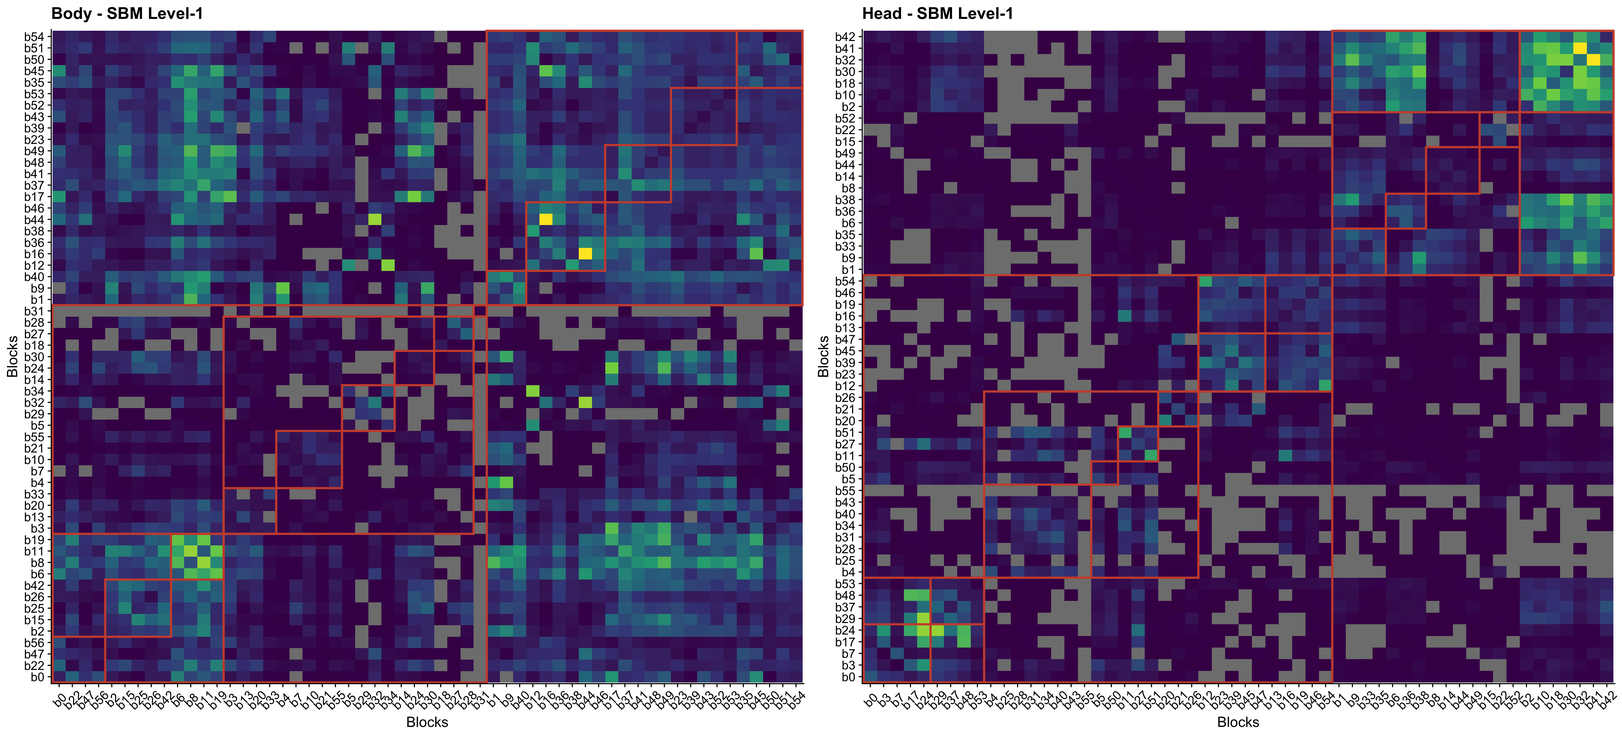
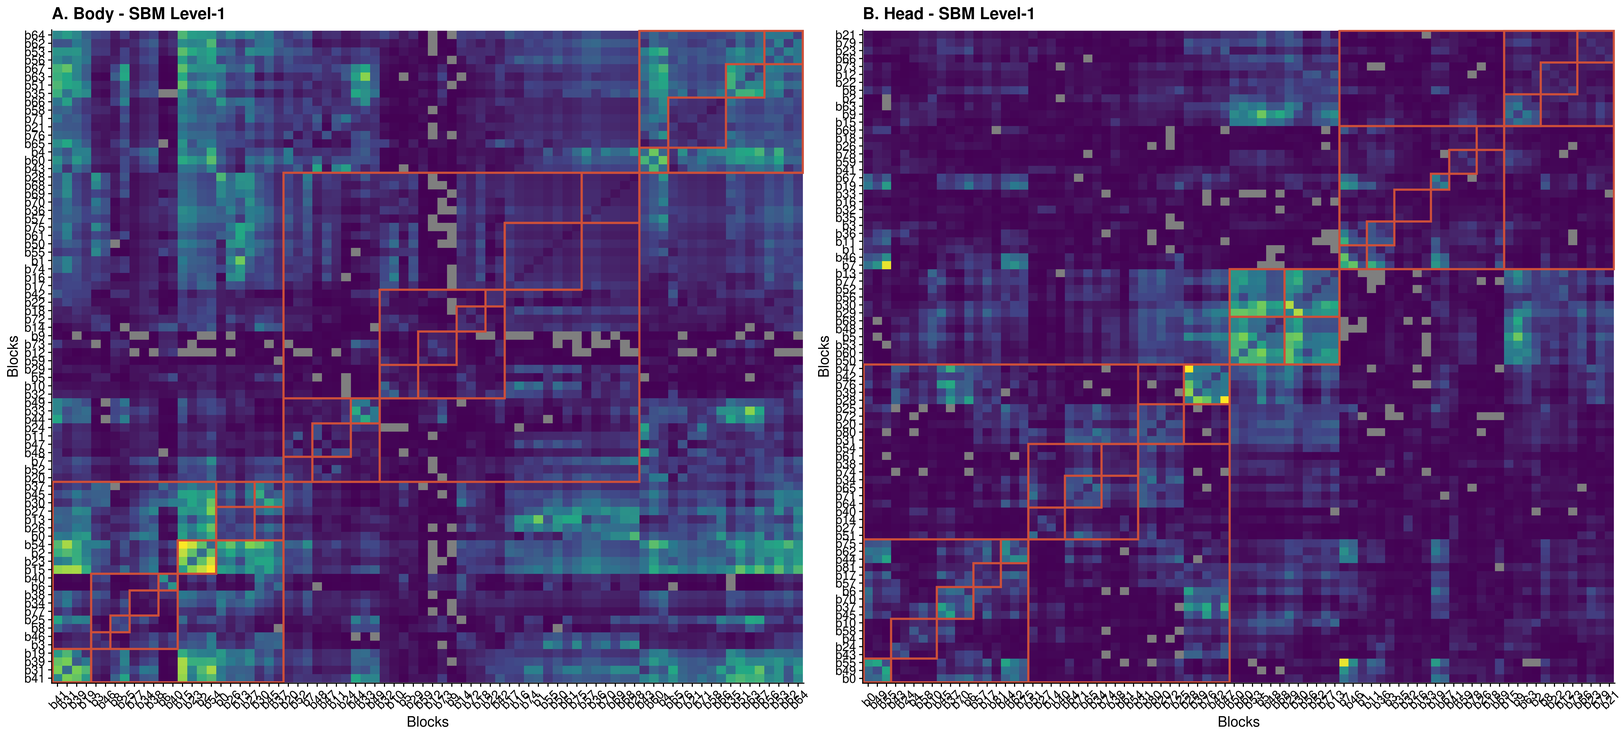
starting the changes for the 5k gene version

diff --git a/main.md b/main.md
@@ -1,17 +1,34 @@
 ---
 title: Clustering using the Stochastic Block Model shows that gene expression networks are not assortative
-bibliography: [./references.bib]
-csl: [./evolution.csl]
-mainfont: Skolar PE TEST Regular
-sansfont: Skolar Sans PE TEST
-mainfontoptions:
-- Numbers=Lowercase
-- Numbers=Proportional
+author:
+- Diogo Melo
+- Luisa Pallares
+- Julien Ayroles
+output: pdf_document
 geometry:
 - top=20mm
 - left=25mm
 - right=25mm
 - bottom=20mm
+header-includes:
+- \usepackage[backref=true,style=authoryear]{biblatex}
+- \DefineBibliographyStrings{english}{backrefpage = {page}, backrefpages = {pages}}
+- \usepackage{multicol}
+- \usepackage{setspace}
+- \usepackage{float}
+- \usepackage{afterpage}
+- \usepackage{stfloats}
+- \usepackage{graphicx}
+- \newcommand{\hideFromPandoc}[1]{#1}
+- \hideFromPandoc{ \let\Begin\begin \let\End\end}
+link-citations: yes
+mainfont: Skolar PE TEST Regular
+mainfontoptions:
+- Numbers=Lowercase
+- Numbers=Proportional
+csl: ./evolution.csl
+sansfont: Skolar Sans PE TEST
+bibliography: ./references.bib
 ---
 
 # Intro
@@ -20,9 +37,9 @@ Gene co-expression networks allow for the associations between genes to inform o
 
 The question is, given a co-expression network, how should we cluster the genes? The general idea behind several methods is to look for similar genes, as these are expected to be involved in related biological functions, but several definitions of similarity have been used. The most basic measure of similarity borrows from classical morphological integration theory, and attempts find gene modules based on their correlations. In this context, genes in the same modules are expected to be highly correlated and perform similar functions, while genes in different modules are expected to have low correlations [@Olson1958-fh; @Magwene2001-an; @Wagner2007-jt]. Here, we refer to this classic pattern of groups of genes that are more associated with each other than with other genes as assortativity, and to the groups as assortative modules. Other methods use the correlations to create other measures of similarity, which are then used as inputs to clustering algorithms. Weighted correlation network analysis [WGCNA, @Langfelder2008-qa] uses a power transformation of the correlations between genes expressions (or a topological similarity measure built with these transformed correlations) [@Zhang2005-kh; @Dong2007-ff] as a similarity measure that is then separated into assortative modules using hierarchical clustering. One of the main objectives of WGCNA is finding hub genes, which have high connectivity withing modules and are clearly identified by the hierarchical clustering. Other methods borrow from network analysis and attempt to explicitly maximize the Newman Modularity [@Newman2006-fv] of the weighted gene network. Modulated Modularity Clustering [MMC, @Stone2009-hv] uses an adaptive algorithm to find a non-linear distance between genes based on their correlations that maximizes the number of modules. All these methods impose an assortative structure on the gene expression network, in which similar genes are expected to be correlated with each other. 
 
-These clustering approaches come with important downsides. Using WGCNA involves manually tunning several parameters, and for this tunning the method leans heavily on the expectation that gene co-expression networks should be approximately scale-free [@Dong2007-ff; @Bergmann2004-vw; @Jeong2000-xe], but, despite its popularity, this expectation might be somewhat unwarranted [@Khanin2006-ve; @Stumpf2005-ed]. Even with optimal parameters, WGCNA fails to assign a substantial proportion of genes to any module. While WGCNA is efficient in finding hub genes, if some functional gene group does not have a hub or has low average similarities, this group will never be identified. Both limitations potentially leave biological insight on the table by ignoring network structures that are different from what the method expects. Methods that use modularity maximization, like MMC, are subject to know statistical problems, surprisingly being prone to both overfitting (finding modular community structure where there is none [@Guimera2004-jq]) and under-fitting (failing to find modular structure in large networks, due to a problem know as the resolution limit [@Fortunato2007-ao]). 
+These clustering approaches come with important downsides. Using WGCNA involves manually tuning several parameters, and for this tuning the method leans heavily on the expectation that gene co-expression networks should be approximately scale-free [@Dong2007-ff; @Bergmann2004-vw; @Jeong2000-xe], but, despite its popularity, this expectation might be somewhat unwarranted [@Khanin2006-ve; @Stumpf2005-ed]. Even with optimal parameters, WGCNA fails to assign a substantial proportion of genes to any module. While WGCNA is efficient in finding hub genes, if some functional gene group does not have a hub or has low average similarities, this group will never be identified. Both limitations potentially leave biological insight on the table by ignoring network structures that are different from what the method expects. Methods that use modularity maximization, like MMC, are subject to know statistical problems, surprisingly being prone to both overfitting (finding modular community structure where there is none [@Guimera2004-jq]) and under-fitting (failing to find modular structure in large networks, due to a problem know as the resolution limit [@Fortunato2007-ao]). 
 
-The co-expression methods described above attempt find group structure by clustering genes into assortative modules. Clustering genes in tightly correlated modules aligns with our intuition that groups of genes performing similar functions should be highly correlated, but it is not necessary for a network to be organized in this assortative fashion, and so using methods that assume assortativity will necessarily ignore alternative organizations. Here, we use a more general measure of similarity can be used to find meaningful genes groups that are not necessarily assortative, with high correlation between groups and biological function. To achieve this, we use a weighted nested degree corrected stochastic block model (wnDC-SBM, or SBM for brevity) [@Peixoto2017-zw; @Peixoto2018-or], which has shown promissing results in similar applications [@Baum2019-ty; @Morelli2020-ge]. The SBM is different from other clustering methods in that it does not attempt to find assortative modules. Instead, any information contained in the structural similarity between genes in the network can potentially be used to inform the clustering. To be sure, the SBM can capture an assortative modular pattern if it is present, but it is general enough to also capture other network organizations [@Zhang2020-up]. Even if, in the context of the SBM, assortativity is not the main driver of the gene partitioning, it can still be used to interpret the groups we obtain. We show that the SBM, a model with no free parameters, can find many more meaningful groups than competing methods, as revealed by highly specific gene ontology enrichment, and show that the expected assortativity of biologically meaningful groups is not necessarily present.
+The co-expression methods described above attempt find group structure by clustering genes into assortative modules. Clustering genes in tightly correlated modules aligns with our intuition that groups of genes performing similar functions should be highly correlated, but it is not necessary for a network to be organized in this assortative fashion, and so using methods that assume assortativity will necessarily ignore alternative organizations. Here, we use a more general measure of similarity can be used to find meaningful genes groups that are not necessarily assortative, with high correlation between groups and biological function. To achieve this, we use a weighted nested degree corrected stochastic block model (wnDC-SBM, or SBM for brevity) [@Peixoto2017-zw; @Peixoto2018-or], which has shown promising results in similar applications [@Baum2019-ty; @Morelli2020-ge]. The SBM is different from other clustering methods in that it does not attempt to find assortative modules. Instead, any information contained in the structural similarity between genes in the network can potentially be used to inform the clustering. To be sure, the SBM can capture an assortative modular pattern if it is present, but it is general enough to also capture other network organizations [@Zhang2020-up]. Even if, in the context of the SBM, assortativity is not the main driver of the gene partitioning, it can still be used to interpret the groups we obtain. We show that the SBM, a model with no free parameters, can find many more meaningful groups than competing methods, as revealed by highly specific gene ontology enrichment, and show that the expected assortativity of biologically meaningful groups is not necessarily present.
 
 
 # Methods
@@ -33,11 +50,11 @@ We measure gene expression using RNASeq in a large, outbred population of D. Mel
 
 ## Gene selection
 
-Using the gene expression measures for both tissues we generate co-expression network graphs. In theory, we could proceed using a full network in which all pairs of genes are connected but fitting the SBM with this fully connected graph is computationally too expensive. So, to reduce the size and connectivity of the network, we impose a stringent Benjamini-Hochberg false discovery rate (FDR) cut-off on the edges, removing edges with a large p-value associated with the correlation between the corresponding genes. As edges are removed, some genes with only non-significant correlations become disconnected from the rest of the network and can be removed. By gradually reducing the FDR threshold, we reduce the size and density of the gene network, until we arrive at a viable set of genes and connections with which to fit the SBM. After some experimentation, we decided that an FDR of 1e-4 for the head and 1e-5 for the body kept a large number of genes (head:3589, body:3253) and allowed us to fit the SBM in days instead of weeks. This set of genes is used in all the different clustering methods. 
+Using the gene expression measures for both tissues we generate co-expression network graphs. In theory, we could proceed using a full network in which all pairs of genes are connected but fitting the SBM with this fully connected graph is computationally too expensive. So, to reduce the size and connectivity of the network, we impose a stringent Benjamini-Hochberg false discovery rate (FDR) cut-off on the edges, removing edges with a large p-value associated with the correlation between the corresponding genes. As edges are removed, some genes with only non-significant correlations become disconnected from the rest of the network and can be removed. By gradually reducing the FDR threshold, we reduce the size and density of the gene network, until we arrive at a viable set of genes and connections with which to fit the SBM. After some experimentation, we decided that an FDR of 1e-2 for the head and 1e-3 for the body kept most of the genes (head:5261, body:5124) and reduced the graph density to a manageable level. This set of genes is used in all the different clustering methods. 
 
-## Edge weights 
+## Edge weights
 
-Each method uses different edge weights for the network graph. Both WGCNA and MMC can use the fully connected graph, so we maintain all edges in these methods. We use the TOM similarity in WGCNA, and the Spearman correlation derived distance in MMC. For the SBM, we use the low-density graph described above, with the edge weights given by the inverse hyperbolic tangent transformed Spearman correlations between gene expressions. This transformation allows the edge weights to be modeled by normal distributions in the SBM, as we discuss bellow.
+Each method uses different edge weights for the network graph. Both WGCNA and MMC can use the fully connected graph, so we maintain all edges in these methods. We use the TOM similarity in WGCNA, and the Spearman correlation derived distance in MMC. For the SBM, we use the low-density graph described above, with the edge weights given by the inverse hyperbolic tangent transformed Spearman correlations between gene expressions. This transformation allows the edge weights to be modeled by normal distributions in the SBM, as we discuss below.
 
 ## Stochastic Block Model
 
@@ -61,7 +78,7 @@ $$
 
 Where $\Sigma = -log[P(A|\theta, b)] - log[P(\theta,b)]$ is called the description length of the gene network $A$, and has an information theoretic interpretation, being the amount of information required to encode the network given $\theta$ and $b$. So finding the partition that maximizes the posterior probability is the same as minimizing the description length, or, in other words, the chosen partition $b$ allows us to describe the network using less information. 
 
-The two terms in $\Sigma$ also allow us to understand why this method offers an intrinsic protection against overfitting. The first term $log[P(A|\theta, b)]$ corresponds to the log likelihood of the observed network. Increasing the number of blocks allows this likelihood to increase as the degrees of freedom of the model increase. But, the second term, $log[P(\theta,b)]$ functions as a penalty that decreases for complex models with many blocks, and the description length cannot decrease for overly complex models that have more blocks than warranted by the data. So, the selected partition with the minimum description length will necessarily be the simplest partition with similar explanatory power, avoiding overfitting and fully based on the available statistical evidence. For example, he SBM would not detect modules that appear in random networks due to statistical fluctuations [@Guimera2004-jq; @Zhang2020-up]. We can also use the description length as a principled method for comparting models that simultaneously considers fit to data and model complexity.
+The two terms in $\Sigma$ also allow us to understand why this method offers an intrinsic protection against overfitting. The first term $log[P(A|\theta, b)]$ corresponds to the log likelihood of the observed network. Increasing the number of blocks allows this likelihood to increase as the degrees of freedom of the model increase. But, the second term, $log[P(\theta,b)]$ functions as a penalty that decreases for complex models with many blocks, and the description length cannot decrease for overly complex models that have more blocks than warranted by the data. So, the selected partition with the minimum description length will necessarily be the simplest partition with similar explanatory power, avoiding overfitting and fully based on the available statistical evidence. For example, he SBM would not detect modules that appear in random networks due to statistical fluctuations [@Guimera2004-jq; @Zhang2020-up]. We can also use the description length as a principled method for comparing models that simultaneously considers fit to data and model complexity.
 
 ### Weighted SBM
 
@@ -89,21 +106,21 @@ where $B$ is the number of blocks. Using this definition, $M = \frac{1}{B} \sum_
 
 ## WGCNA and MMC
 
-We use WGCNA to cluster the genes into modules using the topological overlap measure (TOM) similarity with a soft threshold of 6 in a signed similarity measure. WGCNA produces modules by cutting the hierarchical clustering tree at different heights, and we use the dynamic cutting option to create the modules. We use a signed network (as opposed to ignoring the sign of the correlation between genes) because inspection of the gene network graph reveals large groups of genes linked by negative correlations in our data, suggesting large scale structure that would be obscured by using the unsigned method. Unsigned similarity has been shown to lead to more robust modules [@Mason2009-ej], and in tunning WGCNA we were able to cluster more genes and find more modules using the signed method. MMC has no option to use the sign of the correlation, so we use the absolute value of the Spearman correlations.
+We use WGCNA to cluster the genes into modules using the topological overlap measure (TOM) similarity with a soft threshold of 6 in a signed similarity measure. WGCNA produces modules by cutting the hierarchical clustering tree at different heights, and we use the dynamic cutting option to create the modules. We use a signed network (as opposed to ignoring the sign of the correlation between genes) because inspection of the gene network graph reveals large groups of genes linked by negative correlations in our data, suggesting large scale structure that would be obscured by using the unsigned method. Unsigned similarity has been shown to lead to more robust modules [@Mason2009-ej], and in tuning WGCNA we were able to cluster more genes and find more modules using the signed method. MMC has no option to use the sign of the correlation, so we use the absolute value of the Spearman correlations.
 
 ## Gene Ontology enrichment
 
-We assess the biological relevance of the clustering obtained by each method by comparing their gene ontology (GO) enrichment. We filter enrichment using a Benjamini-Hochberg FDR rate of 5\%, with a minimum of 4 genes in the enriched set. We ran GO in all identified clusters using R packages ClusterProfiler [@Yu2012-tz] and the online tool GOrilla [@Eden2009-qs].
+We assess the biological relevance of the clustering obtained by each method by comparing their gene ontology (GO) enrichment. We filter enrichment using a Benjamini-Hochberg FDR rate of 5\%, with a minimum of 4 genes in the enriched set. We ran GO in all identified clusters using the clusterProfiler R package v4.2.2 [@Yu2012-tz].
 
 # Results
 
 ## Clustering
 
-Gene clustering for all methods is presented in table S1. Using the SBM, in both head and body we identified a nested partition with 4 levels, with 2 blocks at level 4 (the coarsest), 5 (head) and 4 (body) in level 3, 13 (head) and 14 (body) at level 2, and 56 (head) and 57 (body) at level 1. The block structure inferred by the SBM is shown in fig. @fig:Emats. In what follows, when discussing specific SBM blocks, we either explicitly define which level of the nested hierarchy we are referring to, or give the full path to a given block. So, level-1 block 12 in the head can also be referred as 12-0-0-0, and level-2 block 10 in the body is also 10-2-2. 
+Gene clustering for all methods is presented in table S1. Using the SBM, in both head and body we identified a nested partition with 5 levels, with 2 blocks at level 5 (the coarsest), 3 blocks at level 4, 6 (head) and 9 (body) in level 3, 21 (head and body) at level 2, and 82 (head) and 78 (body) at level 1. The block structure inferred by the SBM is shown in fig. @fig:Emats. In what follows, when discussing specific SBM blocks, we either explicitly define which level of the nested hierarchy we are referring to, or give the full path to a given block. So, level-1 block 12 in the head can also be referred as 12-7-2-2-1, and level-2 block 10 in the body is also 10-1-2-1. 
 
 ![SBM Level 1 blocks colored by their weighted connectivity, within and between blocks. Upper levels of the nested hierarchy are shown by the red lines.](figures/SBM_Ematrix.png){#fig:Emats}
 
-WGCNA partitioned 2717 genes into 9 modules in the body and 2032 genes into 8 in the head. WGCNA did not cluster 536 genes in the body and 1557 in the head. Given that the number of modules in WGCNA is somewhat similar to the number of blocks at level 2 of the SBM, we compare these two partitions in fig. @fig:wgcna_compare. Overall, the partitions are different, but there are some common patterns. For example, Level-2 blocks 0, 2 and 6 in the body are split between modules 1 and 4, and these blocks are all in the same Level-3 block 0, suggesting some similarity that could explain the WGCNA clustering. Also in the body genes, we find a similar patter for Level-2 blocks 3, 4 and 5, which are split between modules 2 and 3. In the head, Level-2 block 2 is all assigned to module 1. Level-2 blocks 0 and 12 are split between modules 4 and 6, and both are in Level-3 block 0. So, while the clustering is different, WGCNA and the SBM do capture some common signal.
+WGCNA partitioned 2118 genes into 7 modules in the body and 1600 genes into 7 in the head. WGCNA did not cluster 3006 genes in the body and 3661 in the head. Given that the number of modules in WGCNA is somewhat similar to the number of blocks at level 3 of the SBM, we compare these two partitions in fig. @fig:wgcna_compare. Overall, the partitions are different, but there are some common patterns. For example, Level-3 blocks 0, 2, 5, and 6 in the body are split between modules 3 and 4, and these blocks are all in the same Level-4 block 0, suggesting some similarity that could explain the WGCNA clustering. Blocks 7 and 9 are both fully assigned to module 2. Also in the body genes, we find a similar patter for Level-3 blocks 1, 3, and 4, which are mostly split between modules 1 and 2. In the head, Level-3 block 4 is all assigned to modules 1 and 2. Level-3 blocks 1 and 2 are split between modules 1 and 2, and both are in Level-4 block 2. So, while the clustering is different, WGCNA and the SBM do capture some common signal.
 
 MMC failed to cluster most genes, placing almost all genes into the same large module. Given this poor performance on our data, we do not discuss MMC further and instead focus on comparing SBM to WGCNA.
 
@@ -111,27 +128,27 @@ MMC failed to cluster most genes, placing almost all genes into the same large m
 
 ## Modularity and assortativity
 
-Modularity and assortativity are markedly lower in the body (fig. @fig:modularity). Several blocks in the body have negative assortativity, and the maximum value of modularity is 0.04 at level 2 of the nested hierarchy. Even so, several blocks show GO enrichment across the distribution of assortativity. In the head, modularity increases at coarser levels of the nested hierarchy, with a peak at 0.3 in level 4. This is still a relatively low value, and illustrates how assuming the gene network should be modular can prevent us from finding an informative clustering. Most blocks in the head show positive assortativity, and again GO enrichment is present across the range. 
+Modularity and assortativity are markedly lower in the body (fig. @fig:modularity). Several blocks in the body have negative assortativity, and the maximum value of modularity is 0.035 at level 4 of the nested hierarchy. Even so, several blocks show GO enrichment across the distribution of assortativity. In the head, modularity is overall higher, with a peak at 0.14 in level 3. This is still a relatively low value, and illustrates how assuming the gene network should be modular can prevent us from finding an informative clustering. All but 5 blocks in the head show positive assortativity, and again GO enrichment is present across the range. 
 
 
-![Assortativity in the SBM level-1 blocks and modularity for all nested levels. GO enriched blocks are show in yellow and appear all along the distribution of assortativity. Head modularity increases at upper levels, while body modularity is lower and peaks at level 2.](figures/assortativity.png){#fig:modularity}
+![Assortativity in the SBM level-1 blocks and modularity for all nested levels. GO enriched blocks are show in yellow and appear all along the distribution of assortativity. Modularity is much higher in the head, and it peaks at level 3, dropping in upper levels. Body has a much higher number of non-assortative blocks and lower modularity at all levels. Modularity peaks at level 4 in the body, and drops strongly at level 5. Interestingly, the 4 most assortative blocks in the body are do not show significant GO enrichment.](figures/assortativity.png){#fig:modularity}
 
 ## Gene Ontology enrichment
 
-The majority of blocks in SBM show some level of GO enrichment (Table 1). In particular, several of the Level-3 blocks show a remarkable consistency in their enrichment. For example, Level-3 block 0 in the head is related to neural signaling and sensory perception, with its daughter blocks at Level-2 (0 and 12) showing enrichment for: (Level-2 0) signal transduction, synapse organization, nervous system process, phototransduction, G protein-coupled receptor signaling pathway (12) neural development,  trans-synaptic signaling, behavior. Several of these enrichments are exclusive to one of the level-1 blocks. Perhaps the most surprising enrichment is for the blocks associated with translation, in which all of the ribosomal proteins are clustered almost exclusively in level-1 blocks in the body and in the head. We discuss some notable blocks below. Several other Level-2 and Level-1 blocks are readily identifiable as related to development, DNA transcription, cell respiration, cell cycle regulation, immune response, sugar metabolism, among others. All WGCNA modules show GO enrichment. Supporting Information table 1 shows all GO enrichmentes for all SBM blocks and WGCNA modules. 
+The majority of blocks in SBM show some level of GO enrichment (Table 1). In particular, several of the Level-2 blocks show a remarkable consistency in their enrichment. For example, Level-3 block 0 in the head is related to neural signaling and sensory perception, with its daughter blocks at Level-2 (4 and 6) showing enrichment for: (Level-2 4) G protein-coupled receptor signaling pathway, detection of light stimulus, phototransduction (Level-2 6) synapse organization, axon development,  cell-cell signaling, behavior. Several of these enrichments are exclusive to one of the level-1 blocks. Perhaps the most surprising enrichment is for the blocks associated with translation, in which all of the ribosomal proteins are clustered almost exclusively in level-1 blocks in the body and in the head. We discuss some notable blocks below. Several other Level-2 and Level-1 blocks are readily identifiable as related to development, DNA transcription, cell respiration, cell cycle regulation, immune response, sugar metabolism, among others. All WGCNA modules show GO enrichment (but modules 5, 6 and 7 in the body show only 2 or less enriched terms). Supporting Information table 1 shows GO enrichment for all SBM blocks and WGCNA modules. 
 
 ### Notable individual clusters
 
-Level 2 block 0-0-0 in the head is one of the easiest to interpret, being entierly related to brain tissue function. Figure @fig:go_map shows the top 10 GO categories for each of the level-1 blocks in block 0-0-0, and the most neuronal enriched WGCNA grouping, module 4. The SBM blocks separate vesicle exocitosis, neuronal differentiation, phototransduction, synaptic signaling, and, interestingly, there is a block related to alternative mRNA splicing, which is though to be more common in brain tissues [@Su2018-nz]. WGCNA module 4 recovers some of this enrichment, but in a less granular way. Only the phototransduction part of the enrichment is separated in module 6. Several of these level-1 blocks (especially 0, 7 and 24) are among the most assortative (see fig. @fig:modularity and following section), and so are prime candidates for detection in WGCNA. The alternative splicing module has a much lower assortativity, and so its not surprising that WGCNA could not detect it.
+Level 2 block 0-0-0 in the head is one of the easiest to interpret, being entirely related to brain tissue function. Figure @fig:go_map shows the top 10 GO categories for each of the level-1 blocks in block 0-0-0, and the most neuronal enriched WGCNA grouping, module 4. The SBM blocks separate vesicle exocytosis, neuronal differentiation, phototransduction, synaptic signaling, and, interestingly, there is a block related to alternative mRNA splicing, which is though to be more common in brain tissues [@Su2018-nz]. WGCNA module 4 recovers some of this enrichment, but in a less granular way. Only the phototransduction part of the enrichment is separated in module 6. Several of these level-1 blocks (especially 0, 7 and 24) are among the most assortative (see fig. @fig:modularity and following section), and so are prime candidates for detection in WGCNA. The alternative splicing module has a much lower assortativity, and so its not surprising that WGCNA could not detect it.
 
-Some of the most specific enrichments in the SBM are the translation related blocks. In both body and head, ribossomal proteins are clustered in small and highly enriched level-1 blocks. Six level-1 blocks in the head and seven in the body are composed of virtually only ribossomal related protein genes (We show a subset of these in Figure @fig:go_translation). All are very specific, being composed of between 10-22 genes, and have low assortativity (mean: $0.007$, max: $0.07$, min: $-0.03$). There is no equivalent module in WGCNA, but all of the translation related genes are in the same much larger modules (module 1 in the head, 449 genes; and module 5 in the body, 324 genes), both of which show enrichment for translation but also for several other categories. The level-2 clustering of level-1 blocks in the SBM is also informative. In the head, all of the translation level-1 blocks are in their own level-2 blocks (1-1-1 and 6-1-1). In contrast, in the body, the level-1 translation block share a level-2 blocks with cell respiration blocks. In the body, blocks 1-1-1 and 11-1-1 are about evenly split into translation and mithocondrial respiration level-1 blocks (fig. @fig:body_11 shows one of these mixed level-2 blocks). WGCNA also places cell respiration related genes in the body on the same module 5.
+Some of the most specific enrichments in the SBM are the translation related blocks. In both body and head, ribosomal proteins are clustered in small and highly enriched level-1 blocks. Six level-1 blocks in the head and seven in the body are composed of virtually only ribosomal related protein genes (We show a subset of these in Figure @fig:go_translation). All are very specific, being composed of between 10-22 genes, and have low assortativity (mean: $0.007$, max: $0.07$, min: $-0.03$). There is no equivalent module in WGCNA, but all of the translation related genes are in the same much larger modules (module 1 in the head, 449 genes; and module 5 in the body, 324 genes), both of which show enrichment for translation but also for several other categories. The level-2 clustering of level-1 blocks in the SBM is also informative. In the head, all of the translation level-1 blocks are in their own level-2 blocks (1-1-1 and 6-1-1). In contrast, in the body, the level-1 translation block share a level-2 blocks with cell respiration blocks. In the body, blocks 1-1-1 and 11-1-1 are about evenly split into translation and mitochondrial respiration level-1 blocks (fig. @fig:body_11 shows one of these mixed level-2 blocks). WGCNA also places cell respiration related genes in the body on the same module 5.
 
 The SBM is also able to capture exceedingly faint biological signals. For example, level-1 blocks 55 in the head and 31 in the body are similar in that they are visibly less connected to the rest of the blocks, as we can see in fig. @fig:Emats. They are both very small, being composed of 17 and 10 genes, respectively. This similarity in confirmed by the common GO enrichment for both blocks (immune response) and some common genes (Dpt - diptericin, Dro - drosocin).
 
-  Tissue     Level 1          Level 2             Level 3    Level 4
---------    --------------   -----------------  ----------- -----------
-head         66\% (37/56)     100\% (13/13)     100\% (5/5)  100\% (2/2)
-body         68\% (39/57)     92\%  (13/14)     100\% (4/4)  100\% (2/2)
+  Tissue     Level 1          Level 2           Level 3        Level 4     Level 5
+--------    --------------   ---------------  ------------- ------------- -------------
+head         63\% (52/82)     95\% (20/21)     100\% (6/6)   100\% (3/3)   100\% (2/2)
+body         68\% (56/78)     95\% (20/21)     100\% (9/9)   100\% (3/3)   100\% (2/2)
       
 Table: Number of blocks at each level that show significant GO enrichment at the 5\% FDR level with a minimum of 4 genes in the enriched set.
 
@@ -146,7 +163,7 @@ Table: Number of blocks at each level that show significant GO enrichment at the
 
 # Discussion
 
-Elements in an organism need to have some level of integration, of interdependence, in order to form a functioning individual. This necessary interaction between parts poses an important problem for understanding the evolution of complex traits, as interdependencies are expected to lead to important evolutionary restrictions [@Orr2000-gn]. Modularity, relative independence  between groups of complex traits, provides a simple solution to this problem as it allows organisms to maintain their function unchanged by coordinating simultaneous evolutionary changes in all related traits, while keeping unrelated traits undisturbed [@Ancel2000-vt; @Cheverud1996-jw; @Wagner2011-zx; @Wagner1996-ui]. The explanatory power of modularity as a unifying concept in several levels of organization has lead to its use in several different fields with great success [@Melo2016-yw; @Zelditch2021-ue], and there is no doubt that there are several biological systems that are indeed modular. This general usefulness has also informed much of our thinking on how complex traits should be structured, producing a large literature dedicated to finding modules and testing for their existence. However, modularity is not a necessary feature of biological organization [even in the case of evolvability, see @Pavlicev2011-xm], and restricting our attention to modular systems can blind us to alternative organizations. Indeed, the [ubiquitous|profound] interconectenes of gene regulation networks has lead to a small revolution in our understanding of disease and complex traits [@Boyle2017-re].
+Traits in an organism need to have some level of integration, of interdependence, in order to form a functioning individual. This necessary interaction between parts poses an important problem for understanding the evolution of complex traits, as inter-dependencies are expected to lead to important evolutionary restrictions [@Orr2000-gn]. Modularity, relative independence  between groups of complex traits, provides a simple solution to this problem as it allows organisms to maintain their function unchanged by coordinating simultaneous evolutionary changes in all related traits, while keeping unrelated traits undisturbed [@Ancel2000-vt; @Cheverud1996-jw; @Wagner2011-zx; @Wagner1996-ui]. The explanatory power of modularity as a unifying concept in several levels of organization has lead to its use in several different fields with great success [@Melo2016-yw; @Zelditch2021-ue], and there is no doubt that there are several biological systems that are indeed modular. This general usefulness has also informed much of our thinking on how complex traits should be structured, producing a large literature dedicated to finding modules and testing for their existence. However, modularity is not a necessary feature of biological organization [even in the case of evolvability, see @Pavlicev2011-xm], and restricting our attention to modular systems can blind us to alternative organizations. Indeed, the [ubiquitous|profound] interconnectedness of gene regulation networks has lead to a small revolution in our understanding of disease and complex traits [@Boyle2017-re].
 
 Here, we use an alternative method of clustering to show that assortativity need not be the main driver of biologically meaningful clustering of complex traits. Using the Stochastic Block Model, which clusters genes so as to capture as much information on the network of interactions as possible, we find a large number of biologically relevant groups that could not be uncovered by methods that assume assortative modules. The blocks related to protein translation illustrate this nicely, with clear biological interpretation and practically no assortative modularity. This shifts our view of the structure of the relations between traits: instead of assuming the network is modular and clustering genes based on this assumption, we uncover clusters based on their information content about the gene network and ask if the resulting groups are assortative. Surprisingly, the answer is not always. We find assortative and non-assortative modules, and a marked difference in the overall modularity in the co-expression networks of two tissues in the same population.
 
@@ -158,6 +175,7 @@ There are also several practical advantages to the SBM. The non-parametric natur
 - WGCNA and MMC fail to recover several clear blocks in SBM, like the neuro blocks in the head and the translation blocks in both tissues.
 - SBM also reveals other biological insights, like the association between translation and cell respiration in the body.
 - Imposing more structure than is warranted may be preventing us from extracting meaningful information from gene expression networks.
+- Morphological traits being organized into modules can be interpreted as a reflexion of the very concrete structural and developmental constraints that lead to the formation and functioning of these individual body elements. No such clear imposition exists on gene expression, and the organization of genes into groups can happen through much more dynamic and varied mechanisms.
 
 \newpage
 
